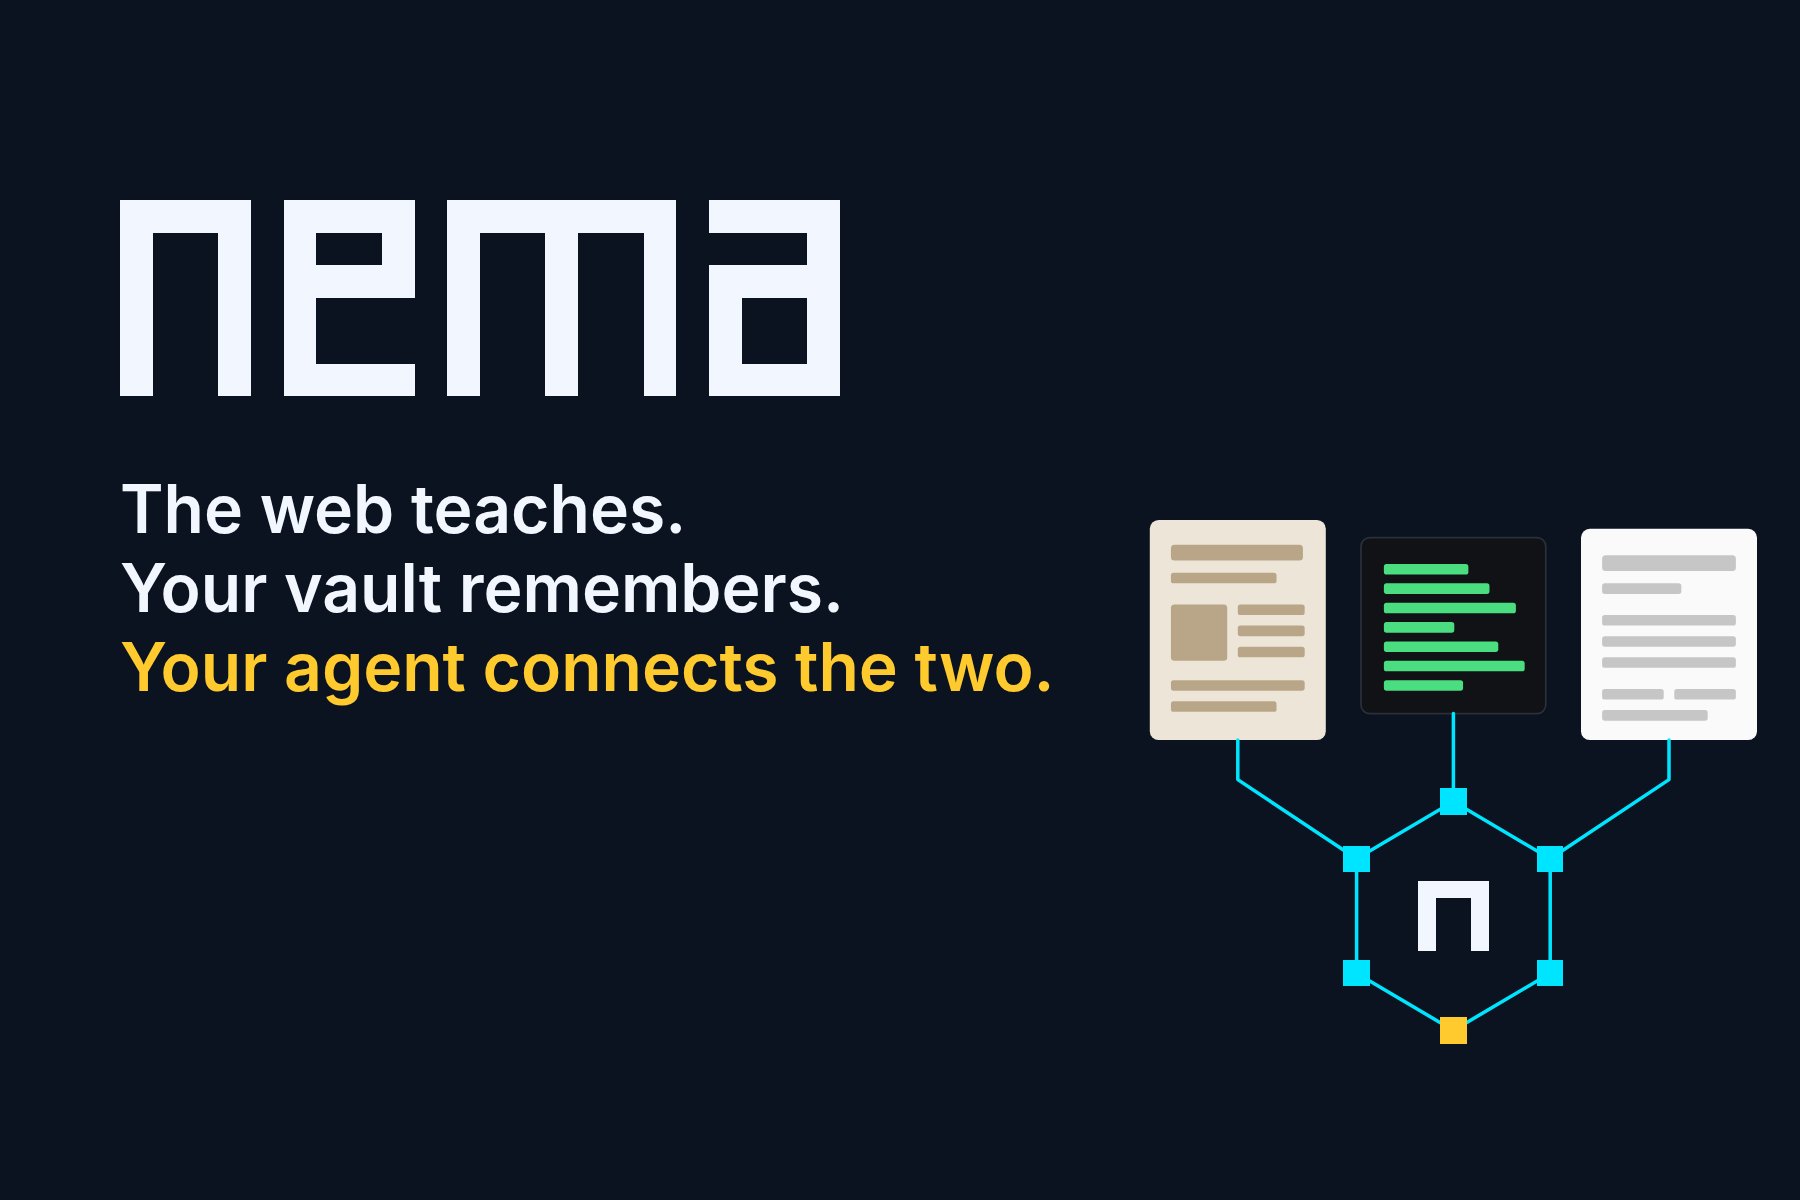
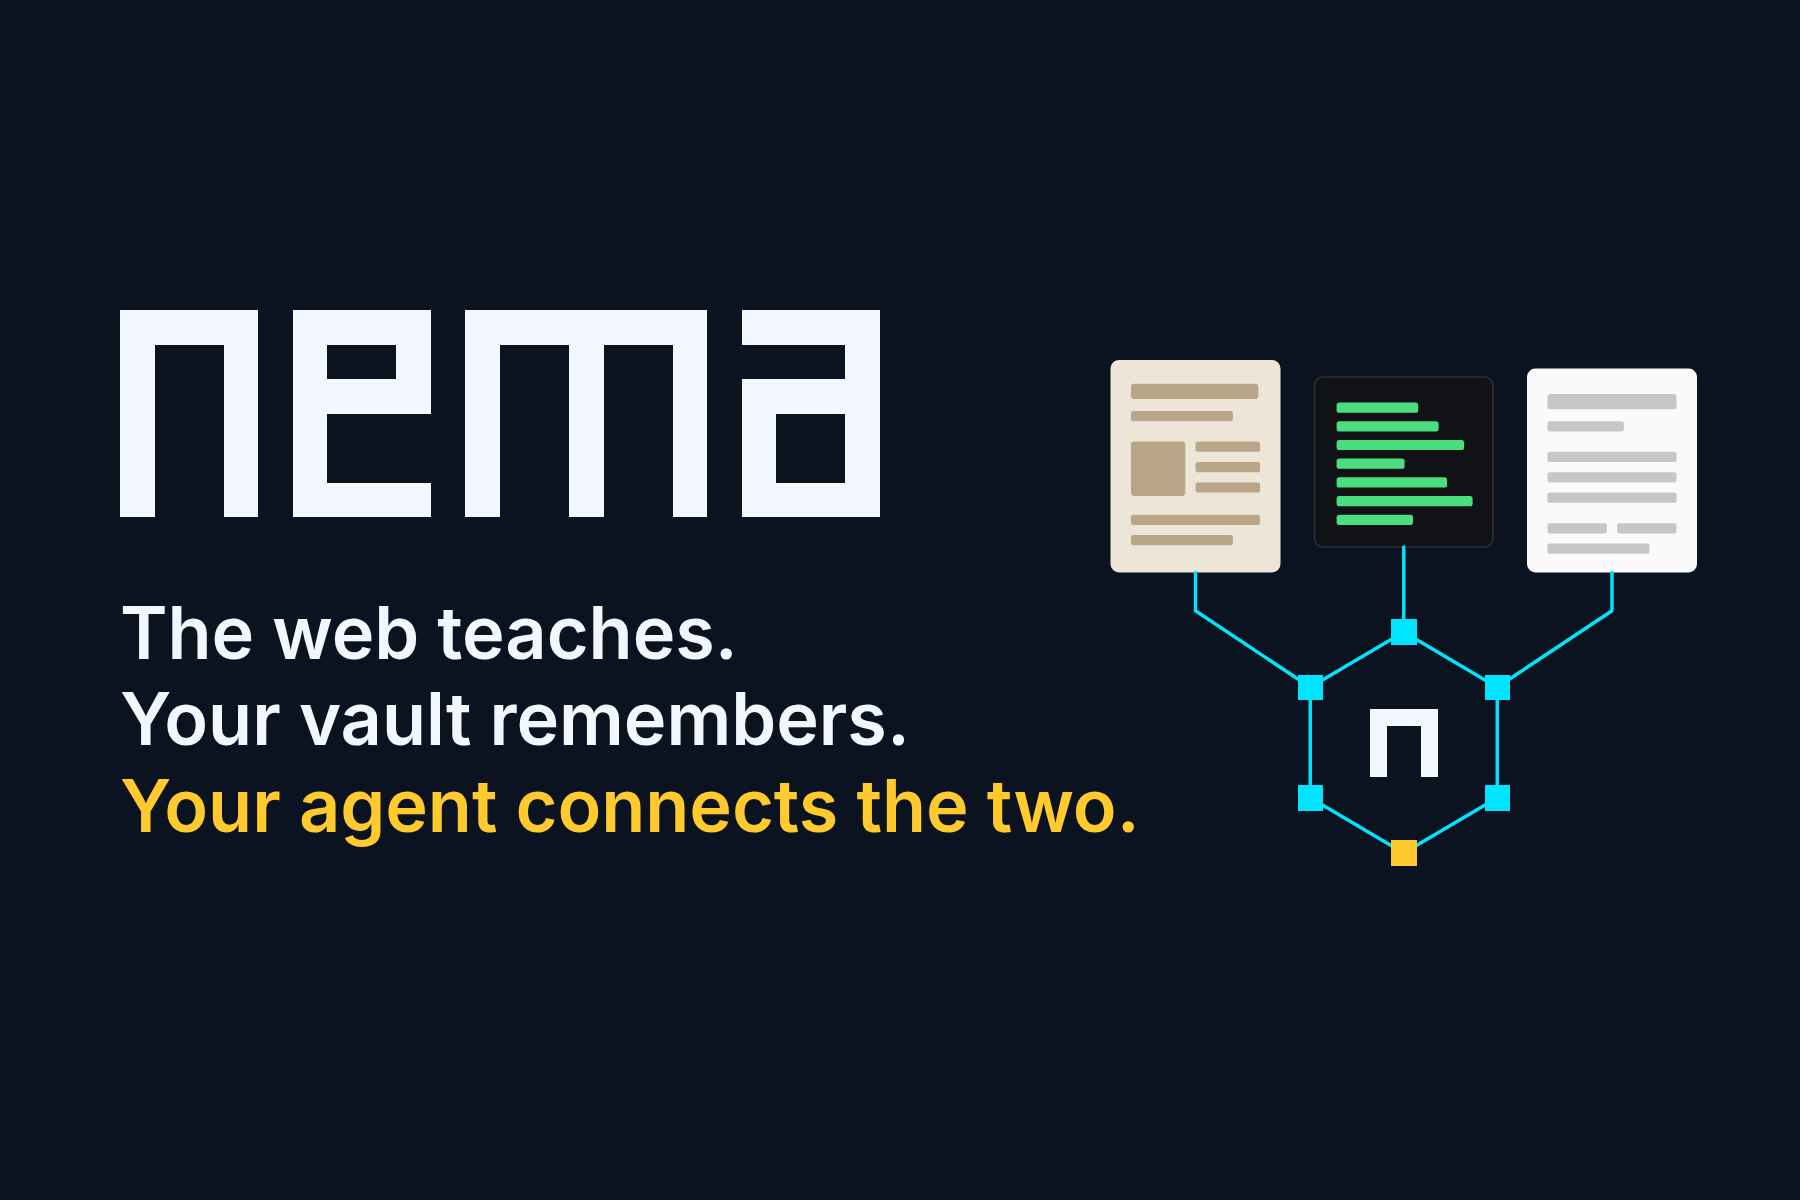
thumbnail: balanced blocks
Claude-Session: https://claude.ai/code/session_01AfeggrhBqzmN8guag9N5jj

diff --git a/docs/assets/devpost-thumbnail.html b/docs/assets/devpost-thumbnail.html
@@ -6,9 +6,9 @@
   html, body { margin: 0; background: #0B1320; }
   .card { position: relative; width: 1800px; height: 1200px; overflow: hidden; background: #0B1320; font-family: var(--font-ui, Inter, sans-serif); color: #F2F6FF; }
   .diagram { position: absolute; inset: 0; width: 1800px; height: 1200px; }
-  .word { position: absolute; left: 120px; top: 200px; width: 720px; color: #F2F6FF; }
+  .word { position: absolute; left: 120px; top: 310px; width: 760px; color: #F2F6FF; }
   .word svg { width: 100%; height: auto; display: block; }
-  .sub { position: absolute; left: 120px; top: 470px; font-size: 66px; line-height: 1.2; font-weight: 600; color: #F2F6FF; white-space: nowrap; }
+  .sub { position: absolute; left: 120px; top: 590px; font-size: 72px; line-height: 1.2; font-weight: 600; color: #F2F6FF; white-space: nowrap; }
   .sub .a { color: #FFCA2E; }
 </style>
 <div class="card">
@@ -18,7 +18,7 @@
         <stop offset="0" stop-color="#00E5FF"/><stop offset="0.5" stop-color="#15C4B4"/><stop offset="1" stop-color="#3A78FF"/>
       </linearGradient>
     </defs>
-    <g transform="translate(261 432) scale(0.88)">
+    <g transform="translate(252 275) scale(0.85)">
     <!-- three sites -->
     <rect x="1010" y="100" width="200" height="250" rx="10" fill="#EDE6D8"/>
     <g fill="#B9A688"><rect x="1034" y="128" width="150" height="18" rx="4"/><rect x="1034" y="160" width="120" height="12" rx="3"/><rect x="1034" y="196" width="64" height="64" rx="4"/><rect x="1110" y="196" width="76" height="12" rx="3"/><rect x="1110" y="220" width="76" height="12" rx="3"/><rect x="1110" y="244" width="76" height="12" rx="3"/><rect x="1034" y="282" width="152" height="12" rx="3"/><rect x="1034" y="306" width="120" height="12" rx="3"/></g>
